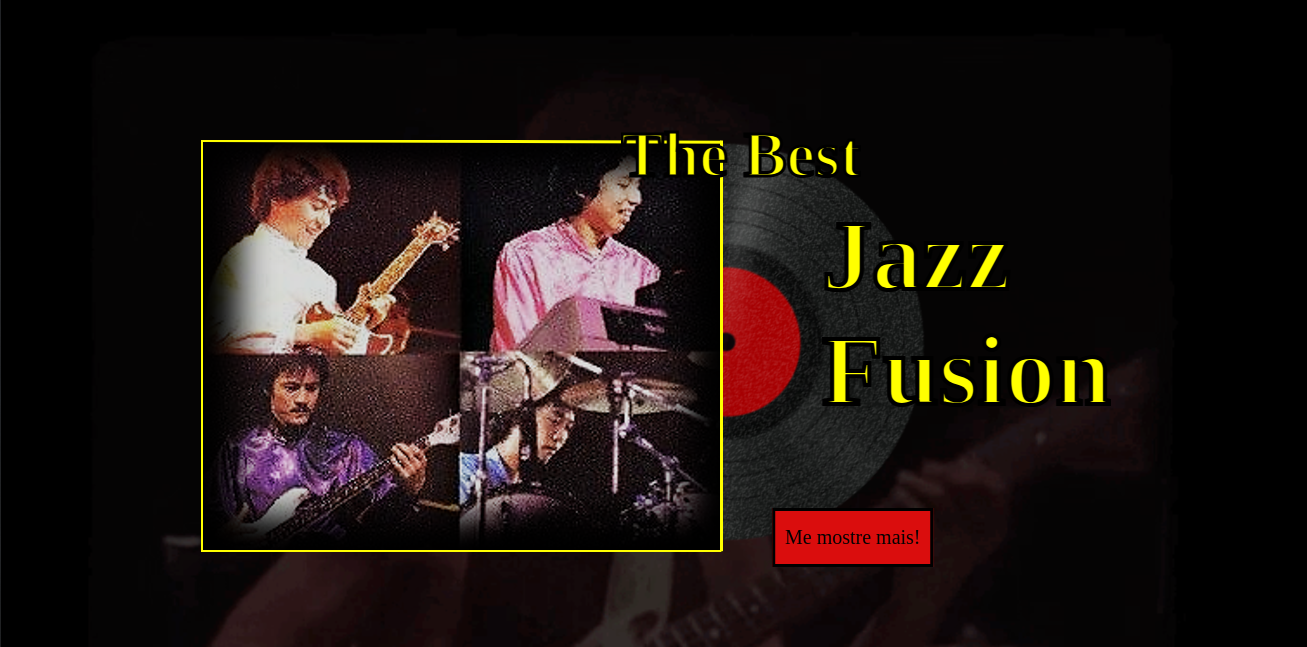
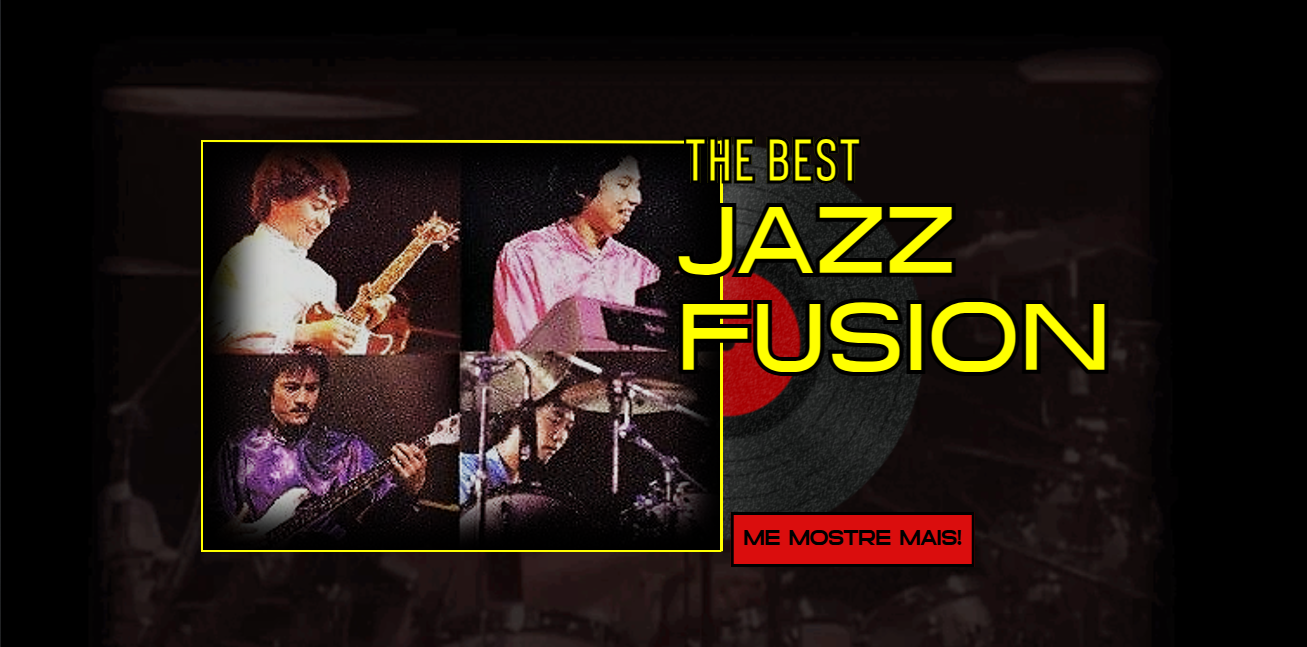
ajustes

diff --git a/principal1.css b/principal1.css
@@ -1,8 +1,11 @@
+@import url('font.css');
+
 * {
   padding: 0;
   margin: 0;
   box-sizing: border-box;
   overflow: hidden;
+  font-family: '';
 }
 
 .banner0 img {
@@ -59,12 +62,13 @@
 
 .texto h2 {
   position: absolute;
+  font-family: 'bison';
   top: 120px;
   right: 450px;
   color: #FFFF00;
   font-family: Bison;
   font-size: 64px;
-  -webkit-text-stroke-width: 3px;
+  -webkit-text-stroke-width: 1px;
   -webkit-text-stroke-color: #000;
   opacity: 0;
   animation: slideIn 2s ease-in-out forwards;
@@ -89,7 +93,7 @@
   top: 200px;
   right: 200px;
   color: #FFFF00;
-  font-family: New Style;
+  font-family: 'new style';
   font-size: 100px;
   -webkit-text-stroke-width: 4px;
   -webkit-text-stroke-color: #000;
